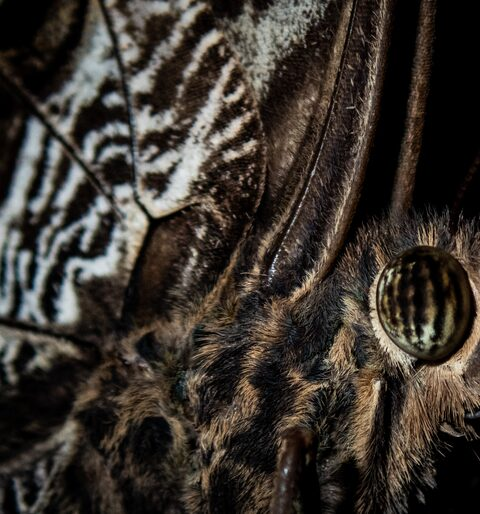
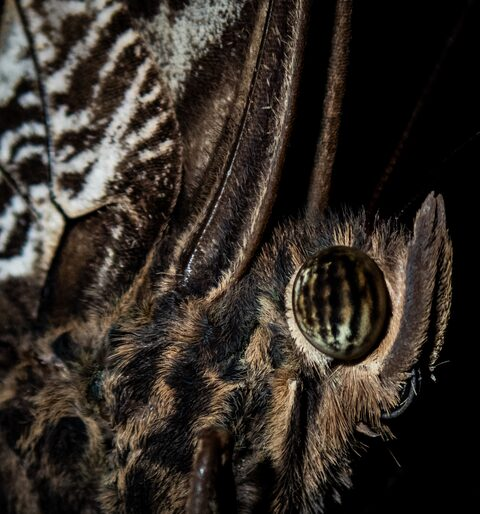
fix: keep hero eye visible on mobile

diff --git a/src/data/records.ts b/src/data/records.ts
@@ -715,7 +715,7 @@ export const MEDIA: readonly Media[] = [
       'colour space normalised to sRGB',
       'stripped EXIF metadata',
       'resized proportionally to multiple widths',
-      'mobile portrait crop 2000×2142+50+0 to centre the head and compound eye',
+      'mobile portrait crop 2000×2142+400+0 to keep the head and compound eye fully visible',
       'JPEG re-encoded (quality 82; progressive; 4:2:0)',
     ],
     alt: {

diff --git a/public/media/hero/caligo-tambopata.LICENSE.md b/public/media/hero/caligo-tambopata.LICENSE.md
@@ -70,7 +70,7 @@ Spanish working equivalent (subject to Caligo review):
 | `caligo-tambopata-1600w.jpg` | Desktop widescreen | 1600 × 902 | Same composition, medium |
 | `caligo-tambopata-1200w.jpg` | Desktop widescreen | 1200 × 677 | Same composition, small |
 | `caligo-tambopata-800w.jpg` | Desktop widescreen | 800 × 451 | Same composition, smallest desktop |
-| `caligo-tambopata-portrait-800w.jpg` | Mobile near-square | 800 × 856 | Crop `2000×2142+50+0` from original, then resize; centred on wing + head + compound eye |
+| `caligo-tambopata-portrait-800w.jpg` | Mobile near-square | 800 × 857 | Crop `2000×2142+400+0` from original, then resize; keeps the wing, head, and complete compound eye visible |
 | `caligo-tambopata-portrait-480w.jpg` | Mobile near-square | 480 × 514 | Same crop, smallest mobile |
 | `caligo-tambopata-poster-1600w.jpg` | Video poster placeholder | 1600 × 902 | For future `<video poster>`; presently unused |
 
@@ -83,9 +83,9 @@ required.
 - Colour space normalised to sRGB.
 - All metadata stripped (`-strip`) except intrinsic pixel data.
 - Widescreen files: proportional downscale only; no crop.
-- Portrait files: horizontal crop of `2000 × 2142` pixels at offset `+50 +0`
-  (drops the mostly-empty right-hand black field so the head, compound eye,
-  antenna base, and left-wing scale texture remain visible on narrow
+- Portrait files: horizontal crop of `2000 × 2142` pixels at offset `+400 +0`
+  (retains enough natural black space on the right to keep the head, compound
+  eye, antenna base, and left-wing scale texture visible across narrow phone
   viewports). Proportional downscale after crop.
 - JPEG re-encoded at quality 82 (widescreen and portrait) / 78 (poster),
   progressive, 4:2:0 chroma subsampling.

diff --git a/DESIGN.md b/DESIGN.md
@@ -67,7 +67,7 @@
 
 - Supported breakpoints/devices: approximately 390 px mobile through wide desktop; the critical narrow-desktop boundary is immediately above 60 rem
 - Desktop layout above 60 rem: the photograph remains full bleed at its original brightness and is scaled gently from the right edge so its focal subject stays left of copy beginning at 58 vw; the image’s own dark area supplies the text field
-- Mobile layout at or below 60 rem: photograph first, then a dedicated dark copy field; no copy overlays the image
+- Mobile layout at or below 60 rem: photograph first, then a dedicated dark copy field; no copy overlays the image; the corrected portrait crop serves narrow phones up to 34 rem, while wider mobile and tablet layouts use the landscape source so the complete eye remains visible
 - Intermediate widths: title, body, actions, and attribution may wrap or increase hero height, but they must not cross into the specimen territory
 - Validation widths: 390, 960, 961, 1024, 1280, 1440, and 1920 CSS pixels
 - Touch/hover differences: full-width mobile CTAs; hover styling is supplemental and never the only state cue